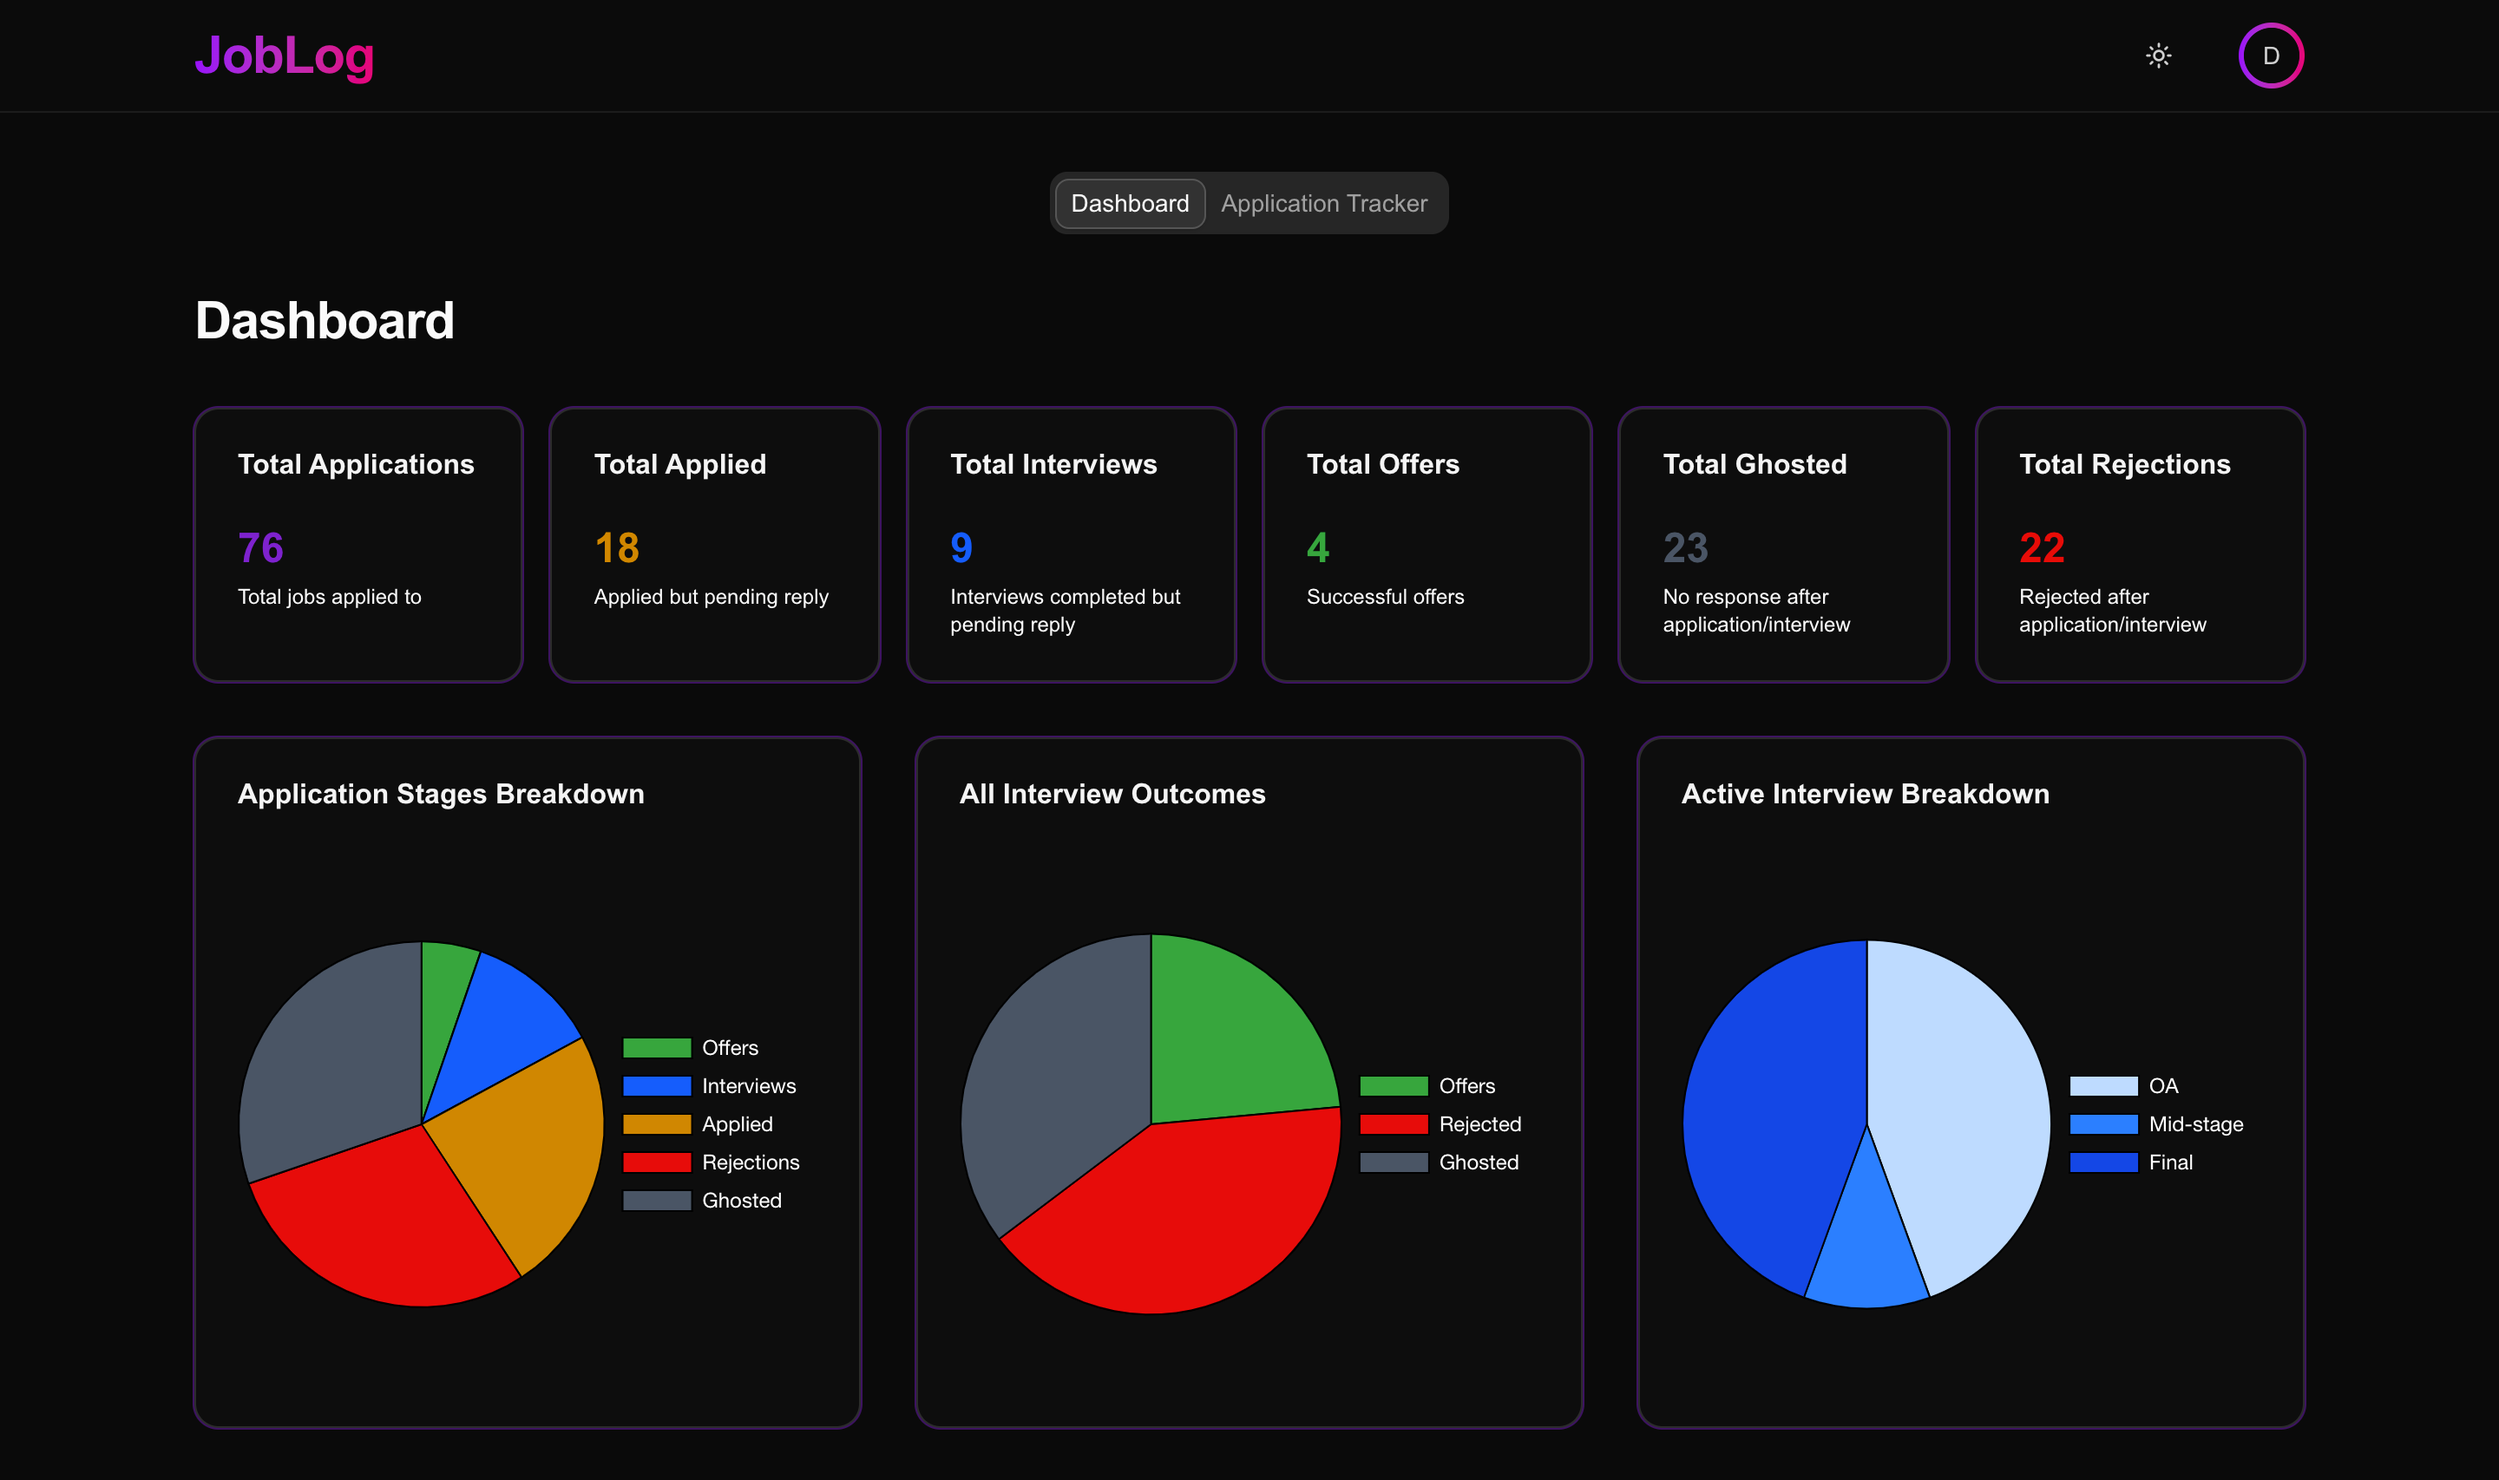
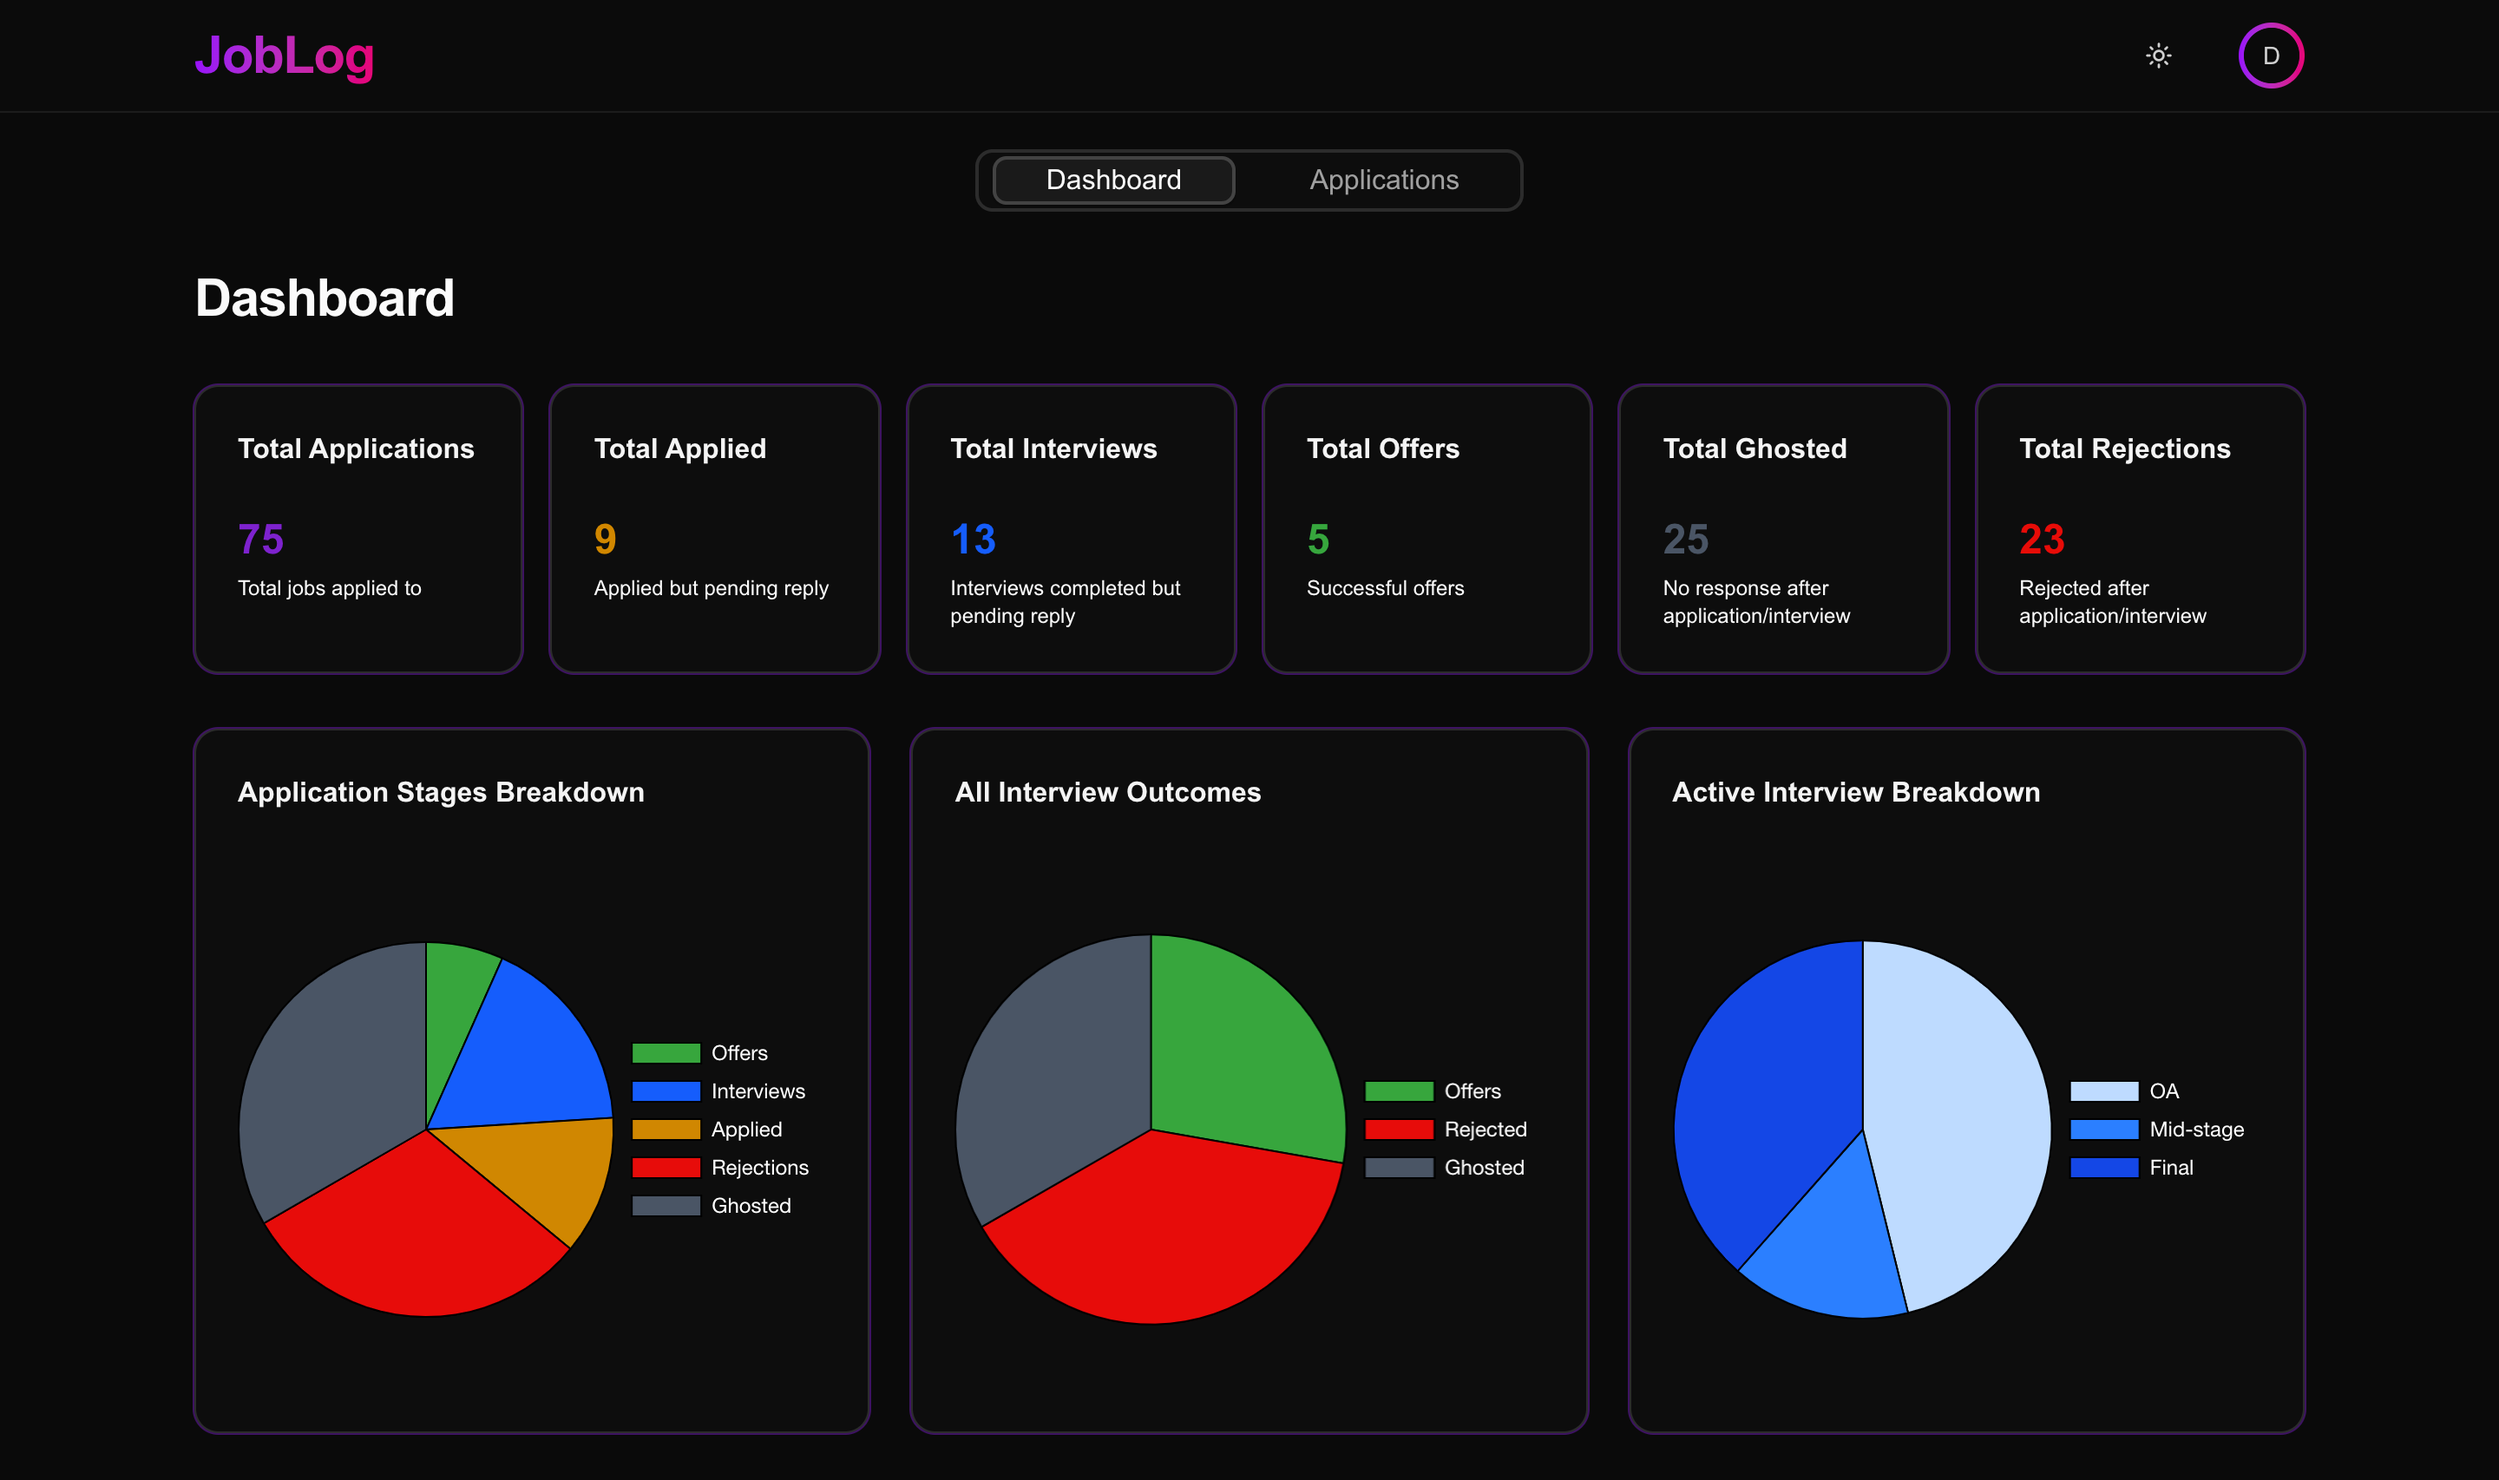
update: new screenshots + renamed tracker -> applications

diff --git a/frontend/src/components/DashboardNavigation.tsx b/frontend/src/components/DashboardNavigation.tsx
@@ -5,11 +5,11 @@ export function DashboardNavigation({ currentPath }: { currentPath: string }) {
     const router = useRouter();
 
     const navigate = (value: string) => {
-        router.push(value === 'dashboard' ? '/dashboard' : '/tracker');
+        router.push(value === 'dashboard' ? '/dashboard' : '/applications');
     };
 
     // Determine the current active tab based on the path
-    const activeTab = currentPath.includes('tracker') ? 'tracker' : 'dashboard';
+    const activeTab = currentPath.includes('applications') ? 'applications' : 'dashboard';
 
     return (
         <div className="flex justify-center my-8 px-2 sm:px-0">
@@ -17,18 +17,14 @@ export function DashboardNavigation({ currentPath }: { currentPath: string }) {
                 <TabsList
                 className="
                     flex flex-wrap sm:flex-nowrap justify-center gap-2 sm:gap-4
-                    p-1 sm:p-2 rounded-lg border border-border/50 bg-card
+                    p-1 sm:p-2 rounded-lg border-2 border-border bg-card
                     w-full max-w-md sm:max-w-none
                 "
                 >
                     <TabsTrigger
                     className="
                         flex-1 min-w-[140px] text-xs sm:text-sm md:text-base py-2 sm:py-3
-                        rounded-md font-medium text-foreground/80
-                        cursor-pointer data-[state=active]:cursor-default data-[state=active]:pointer-events-none
-                        data-[state=active]:bg-primary data-[state=active]:text-primary-foreground
-                        data-[state=active]:shadow-sm
-                        transition-all duration-200 active:scale-95
+                        data-[state=active]:border-2 data-[state=active]:border-border
                     "
                     value="dashboard"
                     >
@@ -37,13 +33,9 @@ export function DashboardNavigation({ currentPath }: { currentPath: string }) {
                     <TabsTrigger
                     className="
                         flex-1 min-w-[140px] text-xs sm:text-sm md:text-base py-2 sm:py-3
-                        rounded-md font-medium text-foreground/80
-                        cursor-pointer data-[state=active]:cursor-default data-[state=active]:pointer-events-none
-                        data-[state=active]:bg-primary data-[state=active]:text-primary-foreground
-                        data-[state=active]:shadow-sm
-                        transition-all duration-200 active:scale-95
+                        data-[state=active]:border-2 data-[state=active]:border-border
                     "
-                    value="tracker"
+                    value="applications"
                     >
                     Applications
                     </TabsTrigger>

diff --git a/frontend/src/components/settings/DataManagementTab.tsx b/frontend/src/components/settings/DataManagementTab.tsx
@@ -103,7 +103,7 @@ export const DataManagementTab = ({ isDemoUser }: DataManagementTabProps) => {
                 <CardHeader>
                     <CardTitle className="text-red-600 dark:text-red-400">Clear All Application Data</CardTitle>
                     <CardDescription  className="text-red-500 dark:text-red-300">
-                        This action is permanent and cannot be undone. This is <strong>useful when starting a new job search phase</strong>. This will delete <strong>ALL</strong> applications and reset your tracker data.
+                        This action is permanent and cannot be undone. This is <strong>useful when starting a new job search phase</strong>. This will delete <strong>ALL</strong> applications and reset your analytics history.
                     </CardDescription>
                 </CardHeader>
                 <CardContent className="space-y-4">
@@ -144,7 +144,7 @@ export const DataManagementTab = ({ isDemoUser }: DataManagementTabProps) => {
                             Confirm Data Wipe
                         </AlertDialogTitle>
                         <AlertDialogDescription>
-                            Your password has been verified. This action cannot be undone. You are about to permanently delete <strong>ALL</strong> job application and tracker data associated with your account.
+                            Your password has been verified. This action cannot be undone. You are about to permanently delete <strong>ALL</strong> job application and analytics data associated with your account.
                         </AlertDialogDescription>
                     </AlertDialogHeader>
                     

diff --git a/frontend/src/pages/applications.tsx b/frontend/src/pages/applications.tsx
@@ -11,15 +11,15 @@ import { Card, CardContent } from "@/components/ui/card";
 import { Search } from "lucide-react"; 
 import { Alert, AlertDescription } from "@/components/ui/alert"; 
 
-import AddJobApplicationDialog from "@/components/tracker/AddJobApplicationDialog"; 
-import EditJobApplicationDialog from "@/components/tracker/EditJobApplicationDialog";
+import AddJobApplicationDialog from "@/components/applications/AddJobApplicationDialog"; 
+import EditJobApplicationDialog from "@/components/applications/EditJobApplicationDialog";
 import { JobApplicationService } from "@/services/api"; 
 import { JobApplication } from "@/types/types"; 
 
-import { JobApplicationTable } from "@/components/tracker/JobApplicationTable"; 
+import { JobApplicationTable } from "@/components/applications/JobApplicationTable"; 
 import { toast } from "sonner";
 import { DemoAlert } from "@/components/DemoAlert";
-import { JobApplicationCards } from "@/components/tracker/JobApplicationCards";
+import { JobApplicationCards } from "@/components/applications/JobApplicationCards";
 
 // Sorting logic
 const sortApplications = (applications: JobApplication[]): JobApplication[] => {
@@ -109,7 +109,7 @@ function useApplicationData() {
 }
 
 
-export default function TrackerPage() {
+export default function ApplicationsPage() {
     const { isAuthenticated, authLoading } = useAuth();
     const router = useRouter();
     const { applications, isLoading: isDataLoading, error: dataError, handleJobAdded,handleJobUpdated, handleUndoStatusChange } = useApplicationData();

diff --git a/frontend/src/components/ScreenshotCarousel.tsx b/frontend/src/components/ScreenshotCarousel.tsx
@@ -21,16 +21,23 @@ const IMAGES = [
         height: 600, 
     },
     { 
-        alt: "Dashboard Advanced Metrics",
+        alt: "Dashboard Daily Trend",
         light: "/images/dashboard2-light.png",
         dark: "/images/dashboard2-dark.png",
         width: 1200, 
         height: 600,
     },
     { 
-        alt: "Tracker Page Table View",
-        light: "/images/tracker-light.png",
-        dark: "/images/tracker-dark.png",
+        alt: "Dashboard Application Flow",
+        light: "/images/dashboard3-light.png",
+        dark: "/images/dashboard3-dark.png",
+        width: 1200, 
+        height: 600,
+    },
+    { 
+        alt: "Applications Page Table View",
+        light: "/images/applications-light.png",
+        dark: "/images/applications-dark.png",
         width: 1200, 
         height: 600,
     },

diff --git a/frontend/src/components/applications/JobApplicationCards.tsx b/frontend/src/components/applications/JobApplicationCards.tsx
@@ -1,5 +1,3 @@
-// frontend/src/components/tracker/JobApplicationCards.tsx
-
 import React, { useState, useMemo, useCallback, useEffect } from 'react';
 import { JobApplication, UpdateJobApplicationRequest } from "@/types/types";
 import { format } from "date-fns";

diff --git a/frontend/src/types/types.ts b/frontend/src/types/types.ts
@@ -13,7 +13,7 @@ export interface AuthUser {
   expiresAt?: number;
 }
 
-// Job application tracker page
+// Job application page
 export interface JobStatusHistory {
   id: number;
   status: string;
